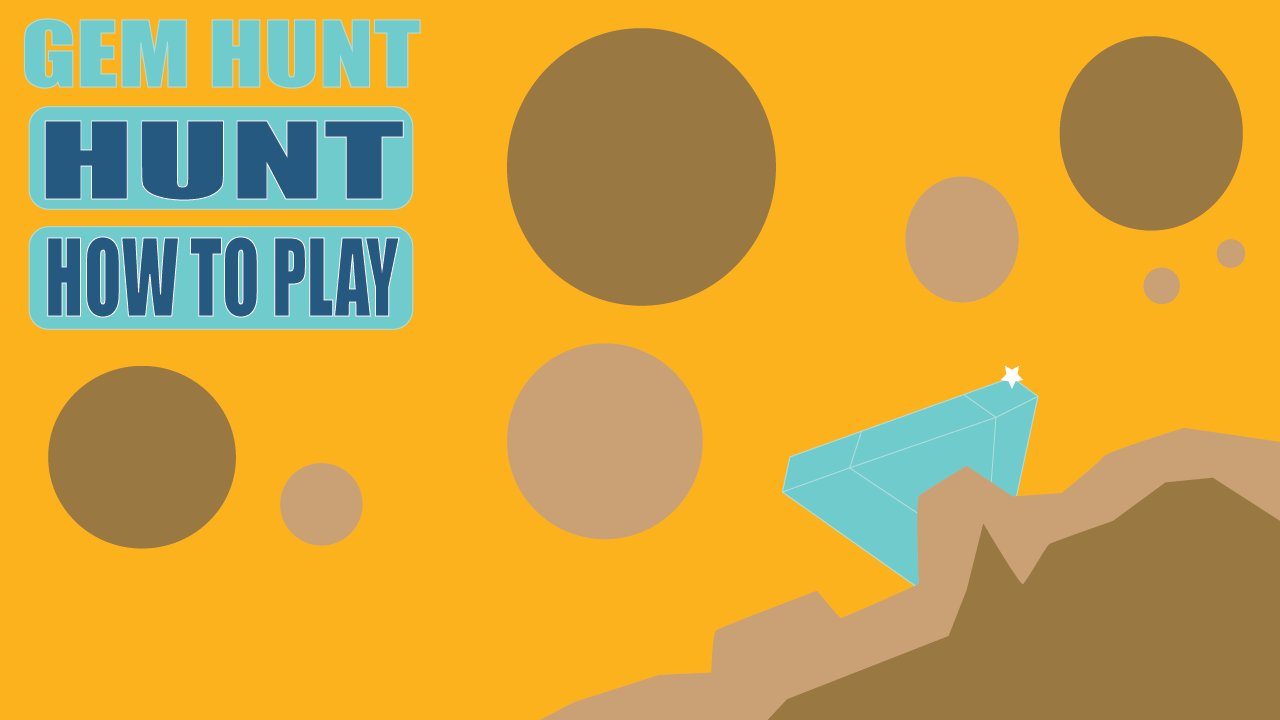
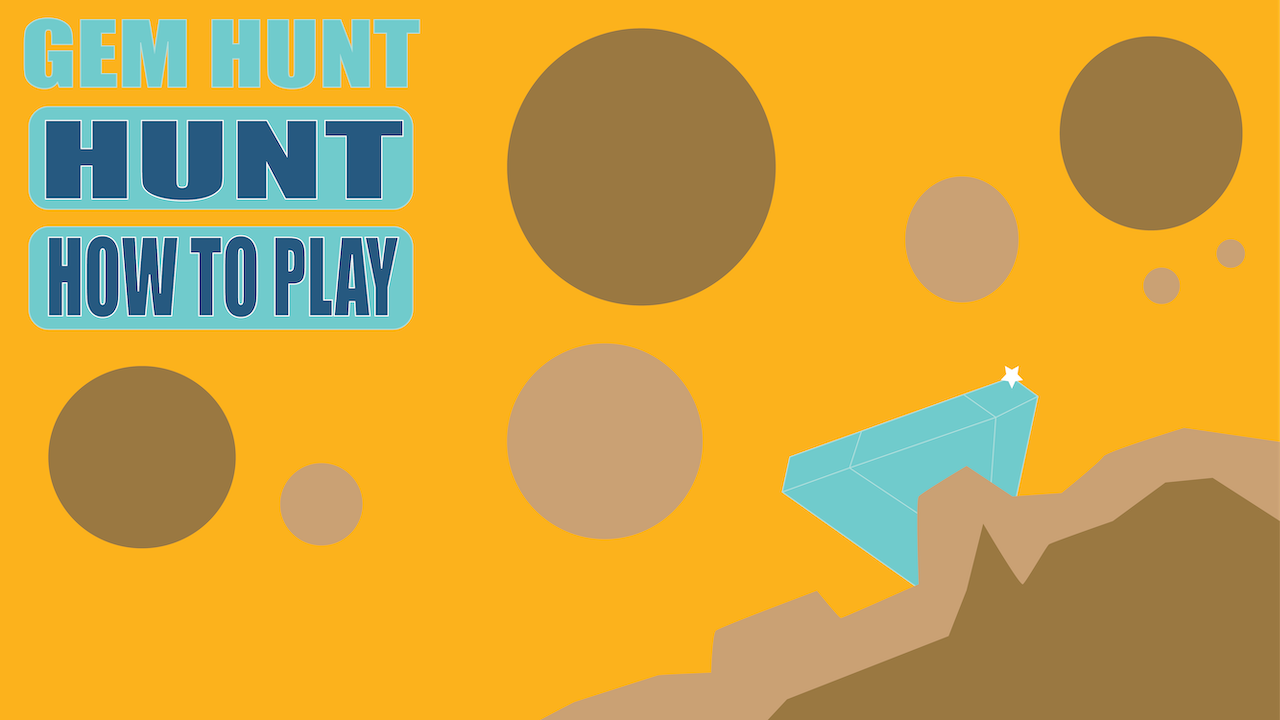
E1 Added a title screen

Changed region(s): [[0.0312, 0.0, 0.3125, 0.4583]]

diff --git a/Exercises/exercise1/js/script.js b/Exercises/exercise1/js/script.js
@@ -15,6 +15,16 @@ const DIAMOND_IMAGE = `assets/images/Gems/diamond.png`;
 // Number of images to display
 const NUM_EASY = 150;
 
+//States
+
+let title = {
+  x: 640,
+  y: 360,
+  w: 1280,
+  h: 720,
+  image: undefined,
+};
+
 //Arrays for gem images
 let gemImages = [];
 
@@ -47,6 +57,9 @@ function preload() {
 
   // Load the diamond image
   diamondImage = loadImage(`${DIAMOND_IMAGE}`);
+
+  //load the title screen
+  title.image = loadImage("assets/images/Screens/titlescreen.png");
 }
 
 function setup() {
@@ -90,9 +103,25 @@ function createDiamond() {
 }
 
 function draw() {
-  //Setting the background color
-  background(bgRed, bgGreen, bgBlue);
+  if (state === "title") {
+    titleScreen();
+  } else if (state === "simulation") {
+    //Setting the background color
+    background(bgRed, bgGreen, bgBlue);
+    simulation();
+  }
+}
 
+//Title Screen display
+function titleScreen() {
+  push();
+  imageMode(CENTER);
+  image(title.image, title.x, title.y, title.w, title.h);
+  pop();
+}
+
+//The simulation
+function simulation() {
   updateGems();
   updateDiamond();
 }
@@ -114,4 +143,15 @@ function updateDiamond() {
 //Functionality for mouse pressed
 function mousePressed() {
   diamond.mousePressed();
+}
+
+//Functionality for mouse clicked
+function mouseClicked() {
+  if (state === "title") {
+    if (mouseX > 32 && mouseX < 416) {
+      if (mouseY > 109 && mouseY < 210) {
+        state = "simulation";
+      }
+    }
+  }
 }
